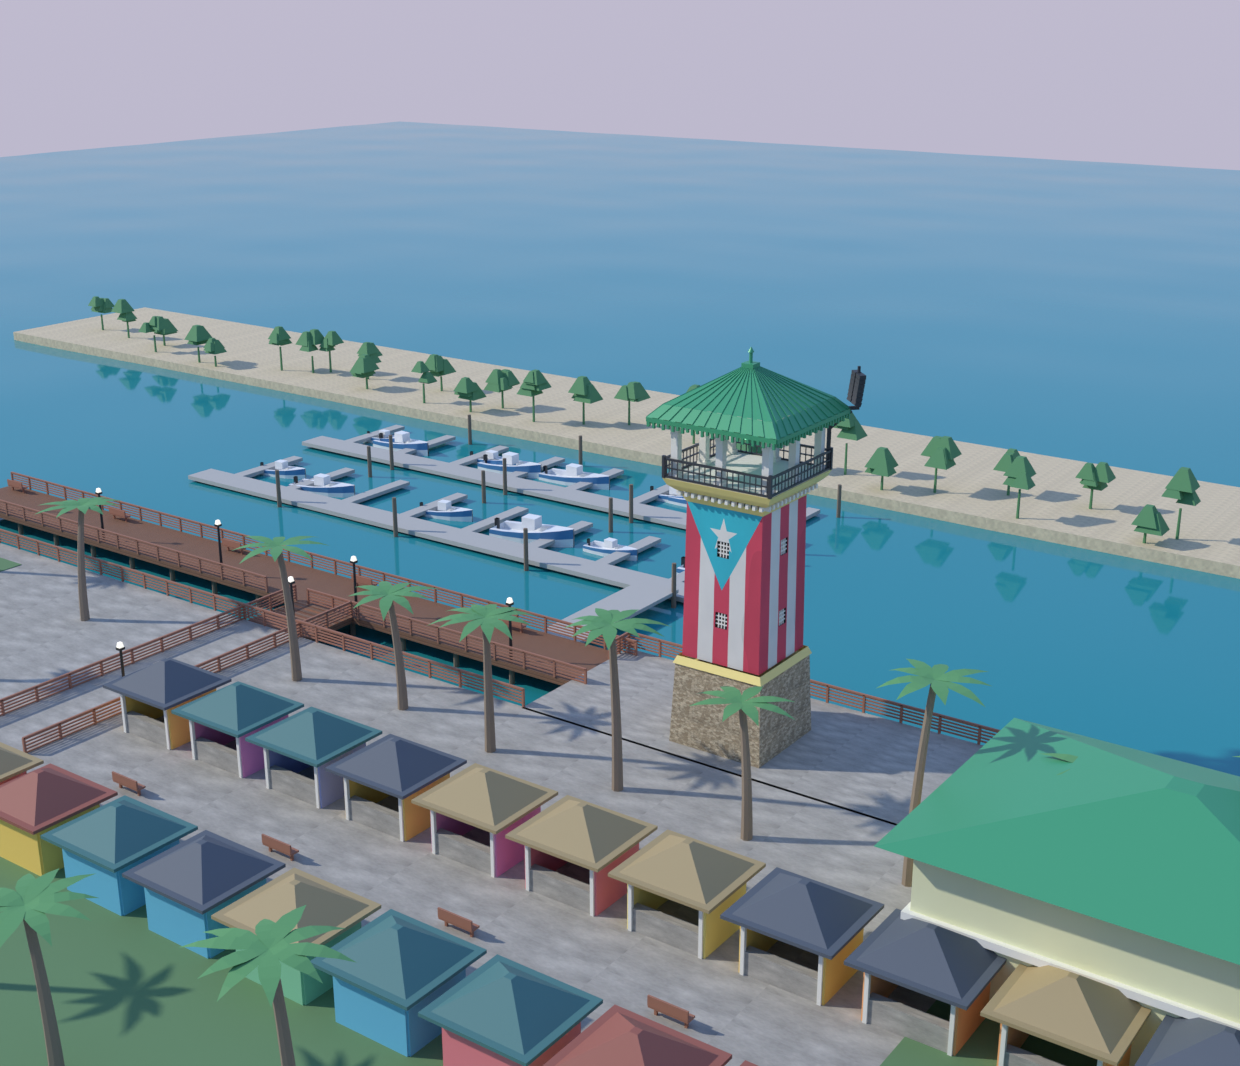
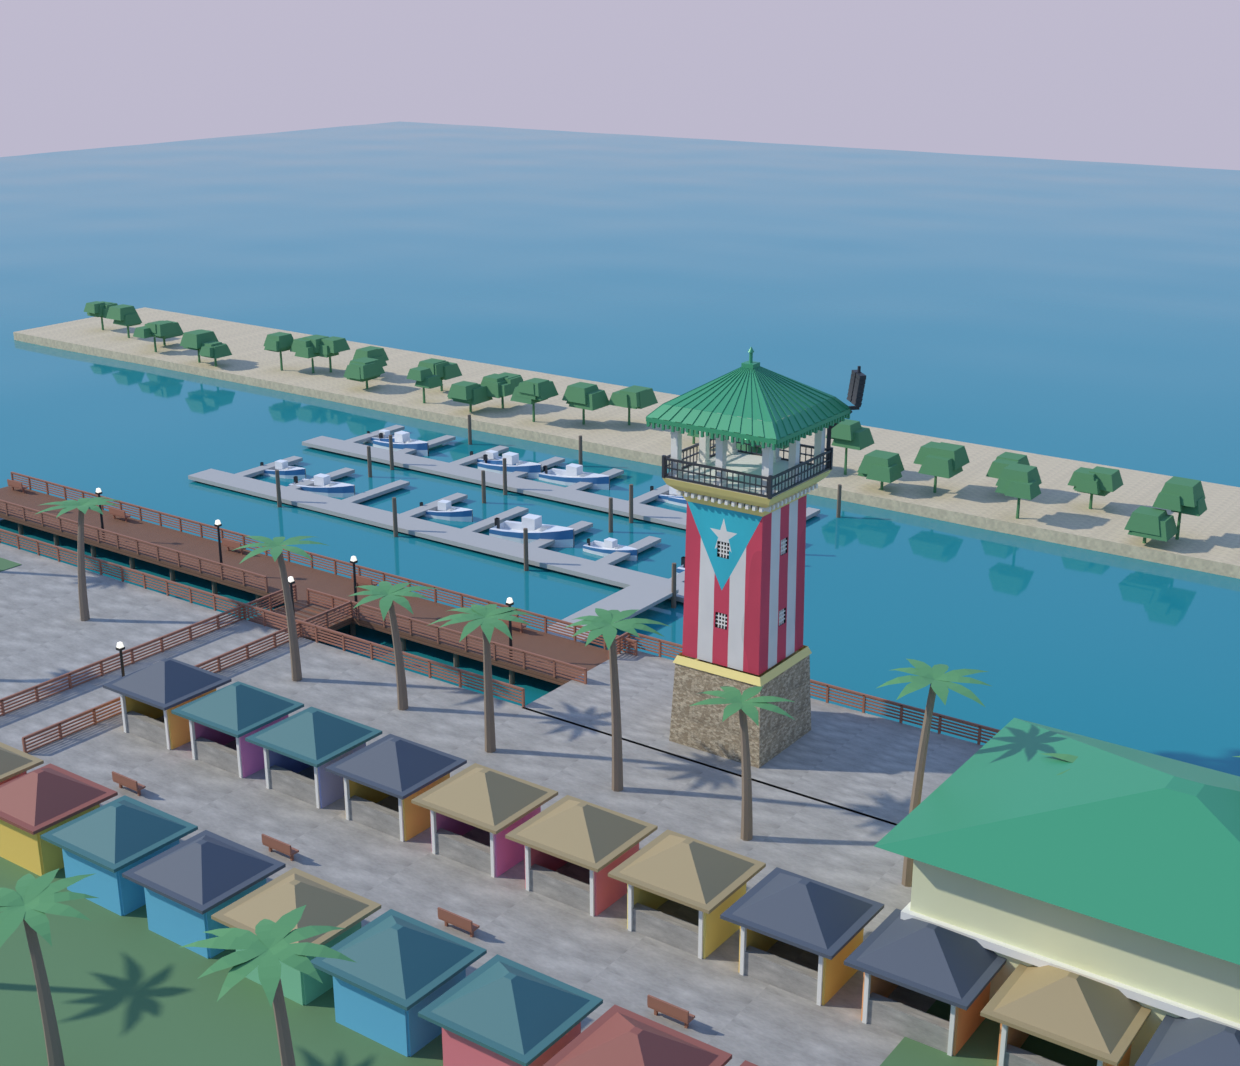
Renders del conjunto y copas de arbol redondeadas
Las copas del arbolado de playa se construian con troncos de piramide muy
afilados, asi que la hilera parecia un pinar. Ahora los volumenes van poco
estrechados y mas anchos que altos.

Anade las cuatro vistas del complejo renderizadas con Cycles a 110 muestras:
conjunto, darsena, tablado y kioscos.

Claude-Session: https://claude.ai/code/session_013LTEp5f6umxqjmTiEEguBo

diff --git a/viewer/index.html b/viewer/index.html
@@ -223,7 +223,7 @@
       <dl class="specs">
         <dt>Faro</dt><dd>21,58 m</dd>
         <dt>Ámbito</dt><dd>194 × 148 m</dd>
-        <dt>Malla</dt><dd>23 567 caras</dd>
+        <dt>Malla</dt><dd>25 384 caras</dd>
       </dl>
     </div>
 

diff --git a/README.md b/README.md
@@ -36,7 +36,7 @@ amarradas; los **24 kioscos** en dos hileras enfrentadas; el edificio de dos
 plantas con cubierta verde; el anfiteatro al aire libre; la lengua de playa con
 su arbolado, el césped y el aparcamiento.
 
-El conjunto ocupa **194 × 148 m** y suma 23 567 caras en 52 objetos.
+El conjunto ocupa **194 × 148 m** y suma 25 384 caras en 57 objetos.
 
 | Vista | |
 |---|---|
